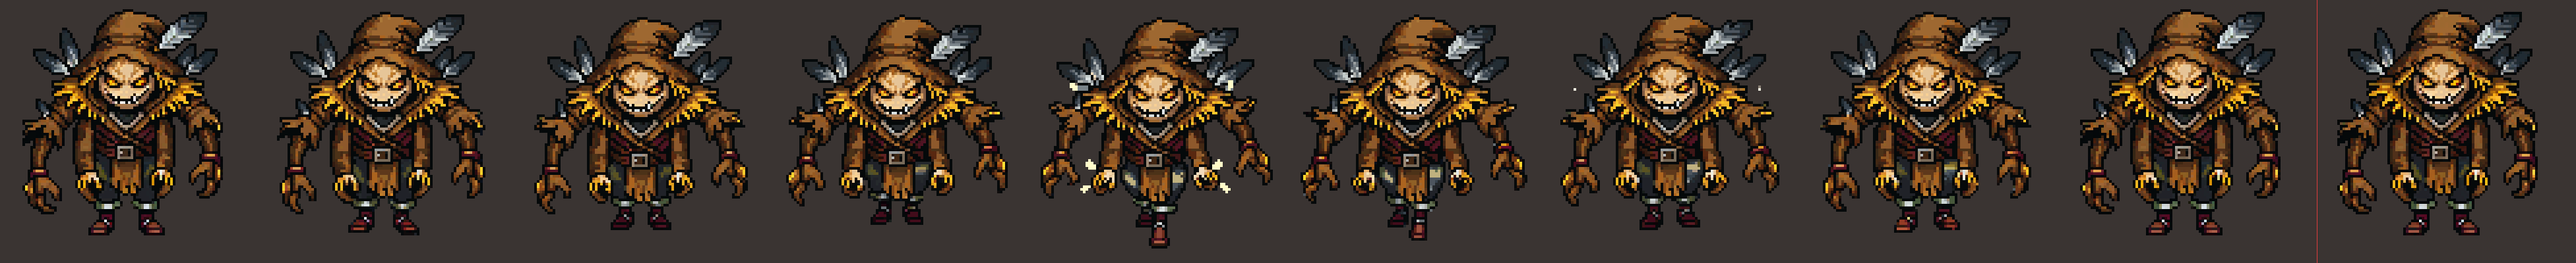
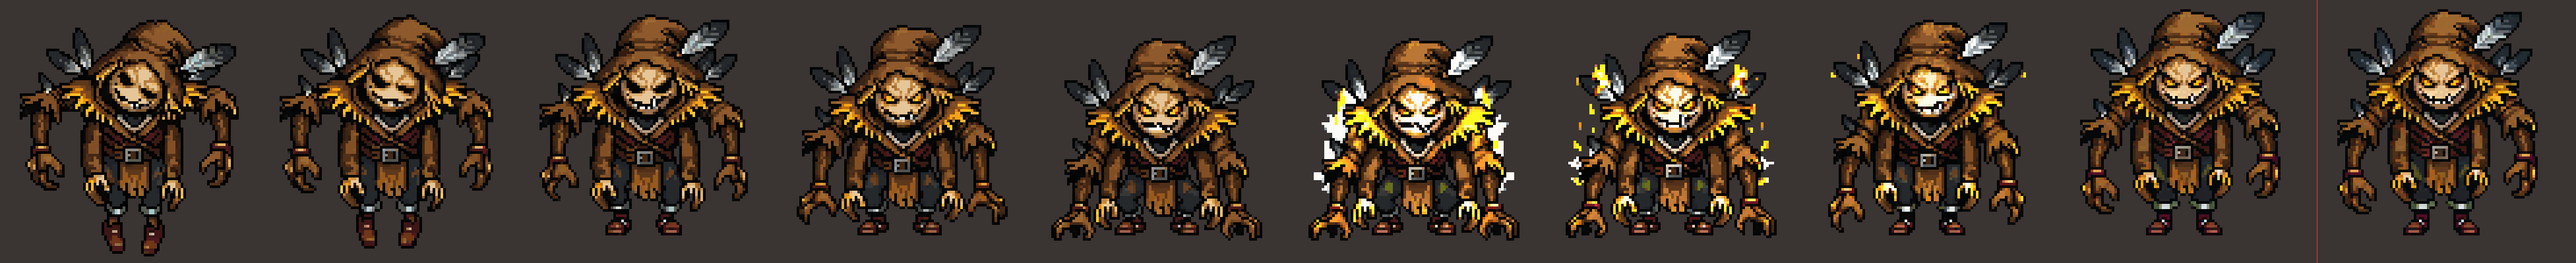
Espantalho desperta de verdade: pose pendurada gerada e clipe awaken refeito
O awaken do espantalho comecava no idle e lia como idle com palha. Agora o quadro 0 e uma pose pendurada e inerte (bracos abertos, cabeca caida, olhos apagados) gerada em create_image_pro com o idle como referencia de personagem, e o clipe vai dessa pose ao idle 0: tres quadros morto, a cabeca sobe, convulsao com palha, assenta. tools/pixellab_entradas.py ganha o comando pose e o tipo de quadro inicial file:. Conferido na cena com screenshot_entradas ato1: pende na frente do poste e pula para a estrada.

diff --git a/tools/pixellab_entradas.py b/tools/pixellab_entradas.py
@@ -55,13 +55,15 @@ SUFFIX = (" Palette, colors, proportions, face and every piece of clothing "
 
 CLIPS = {
     "cursed_scarecrow": {
-        "awaken": dict(frames=8, first="idle", end="idle", action=(
-            "hangs completely limp and motionless like a real scarecrow on "
-            "its pole for the first two frames, then jolts alive: the whole "
-            "body shudders violently, head snaps up, ember eyes flare, claw "
-            "arms jerk and flail, loose straw bursts out of the collar and "
-            "shoulders, it tears itself free and lurches forward with one "
-            "small hop, then settles into its standing stance")),
+        "awaken": dict(frames=8, first="file:tools/preview_out/entradas_arte/ato1/derived/cursed_scarecrow_limp.png",
+                       end="idle", action=(
+            "the lifeless scarecrow hanging limp with both arms spread out "
+            "sideways, head drooped and legs dangling suddenly JERKS alive: "
+            "the head snaps up and the ember eyes ignite, the whole body "
+            "convulses, the arms rip down off the crossbar with straw "
+            "bursting from the shoulders and collar, it drops and lands in "
+            "a low crouch with the claws on the ground, then rises up into "
+            "its standing stance, arms hanging")),
     },
     "hollow_farmer": {
         "walk": dict(frames=8, first="idle", end="idle", action=(
@@ -336,6 +338,8 @@ def derive(eid, kind):
     px = im.load()
     if kind == "idle":
         return im
+    if kind.startswith("file:"):
+        return Image.open(os.path.join(ROOT, kind[5:])).convert("RGBA")
     if kind.startswith("sunk:"):
         visible = int(kind.split(":")[1])
         bb = im.getbbox()
@@ -578,6 +582,64 @@ def _submit_next(eid, clip):
     return True
 
 
+POSES = {
+    "cursed_scarecrow/limp": dict(frames=8, action=(
+        "goes completely limp and lifeless like a real scarecrow hung on "
+        "a pole: both arms rise and spread straight out sideways at "
+        "shoulder height as if resting on a crossbar, the head droops "
+        "forward and to one side with the eyes going dark, the body "
+        "sags, the legs hang straight down and dangle loosely with the "
+        "feet pointing down, and it stays frozen in that hanging pose")),
+}
+
+
+def pose(key):
+    eid, name = key.split("/")
+    spec = POSES[key]
+    prompt = f"{spec['action']}. It keeps its {F.ENEMIES[eid]['keep']}." + SUFFIX
+    args = {"action": prompt[:1000], "first_frame_base64": b64file(F.idle_frame_path(eid)),
+            "frame_count": spec["frames"]}
+    text = F.tool_text(F.rpc("tools/call", {"name": "animate_image", "arguments": args}))
+    m = re.search(r"([0-9a-f]{8}-[0-9a-f]{4}-[0-9a-f]{4}-[0-9a-f]{4}-[0-9a-f]{12})", text)
+    if not m:
+        print(f"[pose] {key}: SEM JOB ID {text[:200]}", flush=True)
+        return
+    job_id = m.group(1)
+    print(f"[pose] {key} -> job {job_id}", flush=True)
+    result = "wait"
+    for _ in range(72):
+        time.sleep(10)
+        result = F.poll_download(eid, "_pose_" + name, job_id)
+        if result != "wait":
+            break
+    if result != "done":
+        print(f"[pose] {key}: {result}", flush=True)
+        return
+    d = F.anim_dir(eid, "_pose_" + name)
+    files = frame_files(d)
+    dd = derived_dir(eid)
+    for i, f in enumerate(files):
+        Image.open(os.path.join(d, f)).save(os.path.join(dd, f"{eid}_{name}_{i}.png"))
+        os.remove(os.path.join(d, f))
+    os.rmdir(d)
+    strip_files([os.path.join(dd, f"{eid}_{name}_{i}.png") for i in range(len(files))],
+                os.path.join(OUT, f"ato{act_of(eid)}", f"{eid}_pose_{name}.png"))
+    print(f"[pose] {key}: {len(files)} quadros em {dd}", flush=True)
+
+
+def strip_files(paths, out, scale=4):
+    ims = [Image.open(p_).convert("RGBA") for p_ in paths]
+    cw = max(im.width for im in ims) * scale
+    ch = max(im.height for im in ims) * scale
+    gap = 6
+    sheet = Image.new("RGBA", (len(ims) * (cw + gap) + gap, ch + 2 * gap), (58, 52, 50, 255))
+    for i, im in enumerate(ims):
+        big = im.resize((im.width * scale, im.height * scale), Image.NEAREST)
+        sheet.paste(big, (gap + i * (cw + gap) + (cw - big.width) // 2, gap + ch - big.height), big)
+    sheet.save(out)
+    print(out)
+
+
 def targets(args):
     ids = []
     for a in args or [str(k) for k in ACTS]:
@@ -806,6 +868,8 @@ if __name__ == "__main__":
     rest = sys.argv[2:]
     if cmd == "run":
         run(rest)
+    elif cmd == "pose":
+        pose(rest[0])
     elif cmd == "submit1":
         sd = int(rest[2])
         jid = submit(rest[0], rest[1], seed=None if sd < 0 else sd)

diff --git a/memory/enemy_entrances_art.md b/memory/enemy_entrances_art.md
@@ -39,7 +39,7 @@ Roteiro: `docs/superpowers/specs/2026-10-22-entradas-inimigos-design.md`. Motor:
 ### Ato 1 (commit do ato)
 | criatura | clipe | veredito | tentativas | nota |
 |---|---|---|---|---|
-| cursed_scarecrow | awaken | ok, sutil | 1 | arranca-se com um pulo pequeno (quadro 5), palha voando; a amplitude e modesta, o motor soma o deslocamento |
+| cursed_scarecrow | awaken | ok | 3 | v1/v2 (quadro 0 = idle) liam como idle com palha; o lead pediu o despertar de verdade. O v3 NAO ergue os bracos a partir do idle (`pose cursed_scarecrow/limp` so baixou a cabeca), entao a pose pendurada veio de `create_image_pro` com o idle como "character base" (4 candidatas, identidade intacta: `ato1/cursed_scarecrow_limp_stills.png`), gravada em `derived/cursed_scarecrow_limp.png` e usada como quadro 0 (`first="file:..."`): 3 quadros inerte de olhos apagados, cabeca sobe no 3, convulsao com palha nos 5-6, assenta no idle. Na cena (`screenshot_entradas ato1`) ele pende na frente do poste a esquerda da estrada e pula para o centro no assentamento |
 | hollow_farmer | walk | ok | 1 | forcado baixa e arrasta no meio do clipe, volta a ficar em pe no fim |
 | plague_rats | form | ok | 2 | 1a: rato brotava NO AR acima da pilha (quadros 1-2); 2a com "every rat touches the ground or another rat" |
 | harvest_reaper | form | ok | 2 | 1a: ficava solido no quadro 2 e VOLTAVA a silhueta nos 6-7 (floreio da foice virou arco preto); 2a "brightens a little more in EVERY frame, body still" |
@@ -72,6 +72,7 @@ Roteiro: `docs/superpowers/specs/2026-10-22-entradas-inimigos-design.md`. Motor:
 - 27 jobs de animacao (19 clipes + 8 retentativas) e 10 chamadas de `create_image_pro` (9 ancoras + 2 regeracoes "lines only" + 1 do plinto, menos a efigie derivada): ~55 geracoes das 450 da frente.
 - O v3 respeita o pino do ultimo quadro: drift maximo 0,04 (gargula), nenhum clipe precisou de `best_of_3`.
 - O que o modelo erra sozinho e previsivel: "cor voltando" vira ciclo de cor; "acende" vira corpo inteiro brilhando; "ergue a arma" vira flash branco; "monta" monta em um quadro; "entra" faz coisa brotar no ar. O prompt que funciona proibe pelo nome (never yellow, nothing floats, a little more in EVERY frame) e descreve etapas.
+- Pose de partida que o idle nao alcanca (bracos erguidos, pendurado): o animador nao a inventa; gere a pose como still em `create_image_pro` com o idle de "character base" e anime still -> idle pinado.
 - Tunica longa esconde o passo: walk de figura de tunica (cultista, acolito) sai como deslize; aceitar e deixar o deslocamento com o motor.
 - Vista de ancora: "flat on the ground" sem "seen straight from the front" vira cubo isometrico; "burned into the ground" vira LAJE. Pedir "ONLY glowing lines, no ground, no slab" da a marca pronta para sobrepor na estrada.
 - Dois processos gravando o mesmo `anchor_jobs.json` perdem job (corrida): enfileirar ancoras de UM processo por vez.
